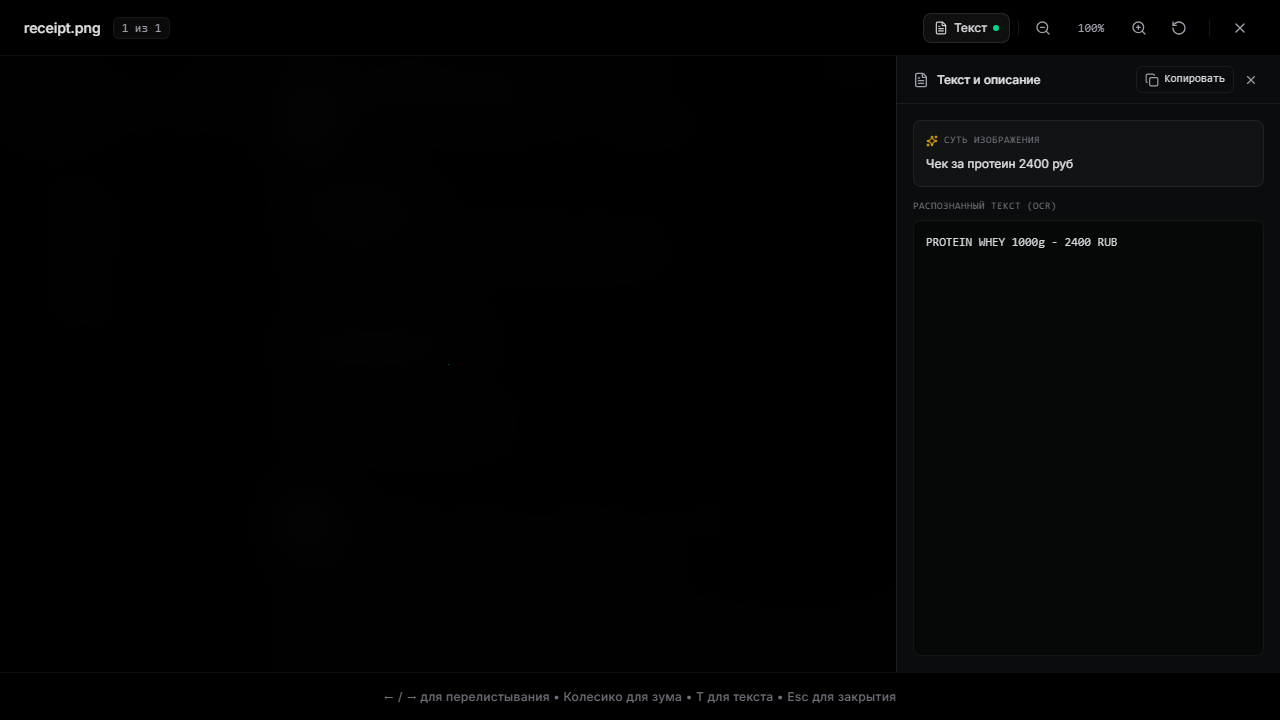
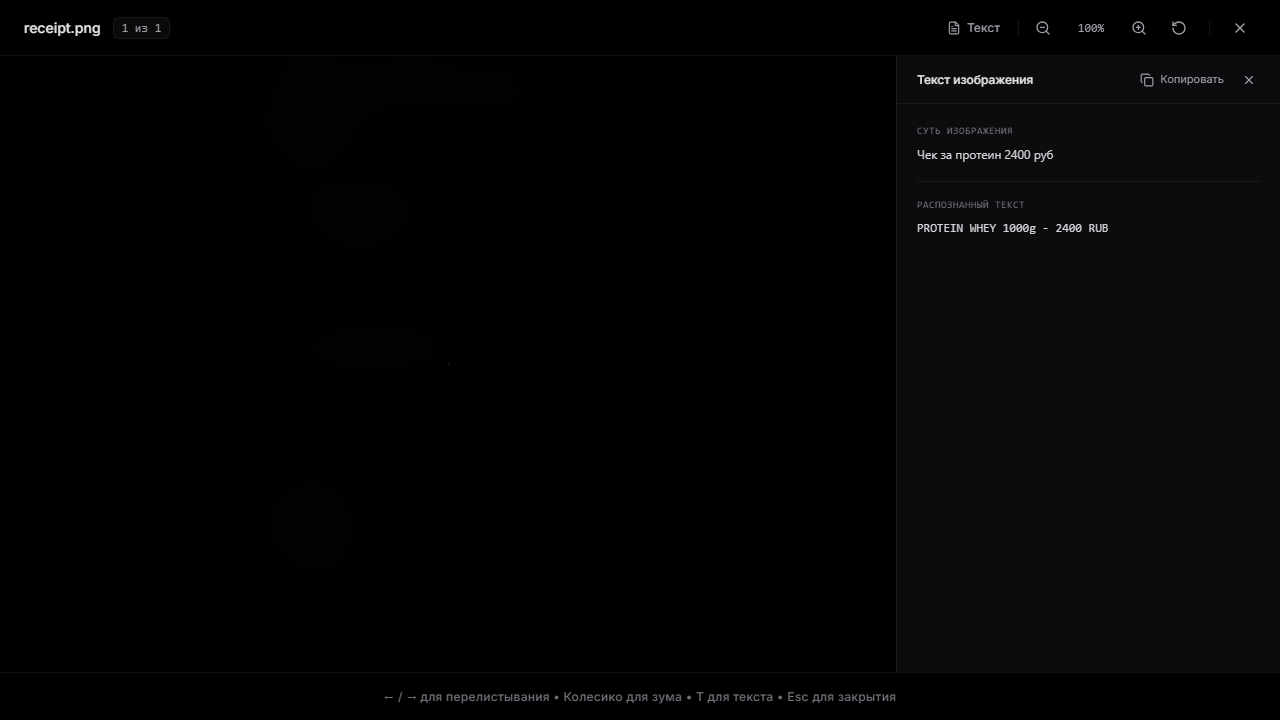
style(lightbox): flatten ocr inspector panel and remove green led dot from toolbar

diff --git a/src/components/UI/ImageLightbox.tsx b/src/components/UI/ImageLightbox.tsx
@@ -9,7 +9,6 @@ import {
   FileText,
   Copy,
   Check,
-  Sparkles,
   AlertCircle,
   Loader2,
 } from 'lucide-react';
@@ -242,25 +241,20 @@ export const ImageLightbox: React.FC<ImageLightboxProps> = ({
 
         {/* Right: Text button + Zoom controls + Close button */}
         <div className="flex items-center gap-1.5 sm:gap-2">
-          {/* Toggle Text / OCR Panel */}
+          {/* Toggle Text / OCR Panel (Monochrome, no LED dots) */}
           <button
             type="button"
             onClick={() => setIsTextPanelOpen(prev => !prev)}
             title={isTextPanelOpen ? 'Скрыть текст (T)' : 'Распознанный текст и описание (T)'}
             aria-label="Распознанный текст"
-            className={`px-2.5 py-1.5 rounded-lg text-xs font-medium flex items-center gap-1.5 transition-all outline-none border cursor-pointer active:scale-95 ${
+            className={`px-2.5 py-1.5 rounded-lg text-xs font-medium flex items-center gap-1.5 transition-all outline-none cursor-pointer active:scale-95 ${
               isTextPanelOpen
-                ? 'bg-white/15 text-white border-white/20 shadow-sm'
-                : hasText
-                  ? 'bg-white/[0.06] text-zinc-300 hover:text-white border-white/10 hover:bg-white/10'
-                  : 'text-zinc-500 hover:text-zinc-300 border-transparent hover:bg-white/[0.04]'
+                ? 'bg-white/15 text-white'
+                : 'text-zinc-400 hover:text-white hover:bg-white/[0.06]'
             }`}
           >
             <FileText className="w-3.5 h-3.5 shrink-0" />
             <span className="hidden sm:inline">Текст</span>
-            {hasText && (
-              <span className="w-1.5 h-1.5 rounded-full bg-emerald-400 shrink-0" />
-            )}
           </button>
 
           <div className="w-px h-4 bg-white/[0.08]" />
@@ -384,25 +378,22 @@ export const ImageLightbox: React.FC<ImageLightboxProps> = ({
           )}
         </div>
 
-        {/* Right: Text / OCR Side Panel */}
+        {/* Right: Text / OCR Side Panel (Flat Anti-Matryoshka Canvas) */}
         {isTextPanelOpen && (
           <aside
             onClick={e => e.stopPropagation()}
             className="w-full sm:w-80 md:w-96 border-l border-white/[0.08] bg-[#0c0d0e]/95 backdrop-blur-2xl flex flex-col shrink-0 z-20 animate-in slide-in-from-right-4 duration-200 min-h-0 select-text"
           >
             {/* Header */}
-            <div className="h-12 px-4 border-b border-white/[0.06] flex items-center justify-between shrink-0 select-none">
-              <div className="flex items-center gap-2">
-                <FileText className="w-4 h-4 text-zinc-400" />
-                <span className="text-xs font-medium text-zinc-200">Текст и описание</span>
-              </div>
-              <div className="flex items-center gap-1">
+            <div className="h-12 px-5 border-b border-white/[0.06] flex items-center justify-between shrink-0 select-none">
+              <span className="text-xs font-medium text-zinc-200">Текст изображения</span>
+              <div className="flex items-center gap-1.5">
                 {hasText && (
                   <button
                     type="button"
                     onClick={handleCopyText}
                     title="Скопировать текст в буфер"
-                    className="px-2 py-1 rounded-md text-[11px] font-mono text-zinc-300 hover:text-white hover:bg-white/[0.08] flex items-center gap-1.5 transition-all border border-white/[0.06] active:scale-95 cursor-pointer"
+                    className="px-2 py-1 rounded-md text-[11px] text-zinc-400 hover:text-white hover:bg-white/[0.08] flex items-center gap-1.5 transition-all active:scale-95 cursor-pointer"
                   >
                     {isCopied ? (
                       <>
@@ -421,34 +412,39 @@ export const ImageLightbox: React.FC<ImageLightboxProps> = ({
                   type="button"
                   onClick={() => setIsTextPanelOpen(false)}
                   title="Закрыть панель (T)"
-                  className="p-1.5 rounded-md text-zinc-400 hover:text-white hover:bg-white/[0.08] transition-all cursor-pointer"
+                  className="p-1 rounded-md text-zinc-400 hover:text-white hover:bg-white/[0.08] transition-all cursor-pointer"
                 >
                   <X className="w-3.5 h-3.5" />
                 </button>
               </div>
             </div>
 
-            {/* Scrollable Body */}
-            <div className="flex-1 overflow-y-auto p-4 flex flex-col gap-3 min-h-0 scrollbar-thin">
+            {/* Flat Scrollable Body (Single surface, zero nested boxes) */}
+            <div className="flex-1 overflow-y-auto p-5 flex flex-col gap-4 min-h-0 scrollbar-thin">
               {/* Summary if present */}
               {currentImage.summary && (
-                <div className="p-3 rounded-lg bg-white/[0.03] border border-white/[0.06] flex flex-col gap-1.5 shrink-0">
-                  <span className="text-[10px] uppercase font-mono tracking-wider text-zinc-500 flex items-center gap-1.5">
-                    <Sparkles className="w-3 h-3 text-amber-400" /> Суть изображения
+                <div className="flex flex-col gap-1.5">
+                  <span className="text-[10px] uppercase font-mono tracking-wider text-zinc-500 font-medium">
+                    Суть изображения
                   </span>
-                  <p className="text-xs text-zinc-200 leading-relaxed">
+                  <p className="text-xs text-zinc-300 leading-relaxed font-sans">
                     {currentImage.summary}
                   </p>
                 </div>
               )}
 
-              {/* OCR Text if present */}
+              {/* Clean Divider between Summary and OCR if both exist */}
+              {currentImage.summary && currentImage.extractedText && (
+                <div className="w-full h-px bg-white/[0.06]" />
+              )}
+
+              {/* OCR Text if present (flat on the panel plane) */}
               {currentImage.extractedText && (
-                <div className="flex-1 flex flex-col min-h-0 gap-1.5">
-                  <span className="text-[10px] uppercase font-mono tracking-wider text-zinc-500">
-                    Распознанный текст (OCR)
+                <div className="flex flex-col gap-1.5">
+                  <span className="text-[10px] uppercase font-mono tracking-wider text-zinc-500 font-medium">
+                    Распознанный текст
                   </span>
-                  <div className="flex-1 overflow-y-auto rounded-lg bg-black/40 border border-white/[0.06] p-3 text-xs font-mono text-zinc-300 leading-relaxed whitespace-pre-wrap select-text scrollbar-thin">
+                  <div className="text-xs font-mono text-zinc-300 leading-relaxed whitespace-pre-wrap select-text">
                     {currentImage.extractedText}
                   </div>
                 </div>
@@ -456,7 +452,7 @@ export const ImageLightbox: React.FC<ImageLightboxProps> = ({
 
               {/* Processing status */}
               {currentImage.enrichmentStatus === 'processing' && (
-                <div className="flex flex-col items-center justify-center py-12 gap-2 text-zinc-400">
+                <div className="flex flex-col items-center justify-center py-16 gap-2 text-zinc-400">
                   <Loader2 className="w-5 h-5 animate-spin text-zinc-300" />
                   <span className="text-xs font-mono">Распознавание текста через Qwen 3.8 27B...</span>
                 </div>
@@ -464,18 +460,18 @@ export const ImageLightbox: React.FC<ImageLightboxProps> = ({
 
               {/* Error status */}
               {currentImage.enrichmentStatus === 'error' && (
-                <div className="p-3 rounded-lg bg-rose-500/10 border border-rose-500/20 text-rose-300 flex flex-col gap-2">
-                  <div className="flex items-center gap-1.5 text-xs font-medium">
+                <div className="flex flex-col gap-2 pt-2">
+                  <div className="flex items-center gap-1.5 text-xs font-medium text-rose-400">
                     <AlertCircle className="w-4 h-4 shrink-0" /> Ошибка распознавания
                   </div>
                   {currentImage.enrichmentError && (
-                    <div className="text-[11px] font-mono opacity-80 break-words">{currentImage.enrichmentError}</div>
+                    <div className="text-[11px] font-mono text-rose-300/80 break-words">{currentImage.enrichmentError}</div>
                   )}
                   {onRetryEnrich && (
                     <button
                       type="button"
                       onClick={() => onRetryEnrich(currentImage)}
-                      className="mt-1 px-2.5 py-1 rounded bg-rose-500/20 hover:bg-rose-500/30 text-rose-200 text-xs font-medium self-start flex items-center gap-1.5 cursor-pointer active:scale-95"
+                      className="mt-1 px-2.5 py-1 rounded bg-rose-500/15 hover:bg-rose-500/25 text-rose-200 text-xs font-medium self-start flex items-center gap-1.5 cursor-pointer active:scale-95"
                     >
                       <RotateCcw className="w-3 h-3" /> Повторить OCR
                     </button>
@@ -485,16 +481,16 @@ export const ImageLightbox: React.FC<ImageLightboxProps> = ({
 
               {/* Empty state */}
               {!hasText && currentImage.enrichmentStatus !== 'processing' && currentImage.enrichmentStatus !== 'error' && (
-                <div className="flex flex-col items-center justify-center py-12 gap-3 text-zinc-500 text-center">
-                  <FileText className="w-8 h-8 opacity-40" />
-                  <div className="text-xs">На изображении нет распознанного текста</div>
+                <div className="flex flex-col items-center justify-center py-16 gap-3 text-zinc-500 text-center">
+                  <FileText className="w-7 h-7 opacity-30" />
+                  <div className="text-xs">На изображении нет текста</div>
                   {onRetryEnrich && (
                     <button
                       type="button"
                       onClick={() => onRetryEnrich(currentImage)}
-                      className="px-3 py-1.5 rounded-lg bg-white/[0.06] hover:bg-white/10 text-zinc-200 text-xs font-medium flex items-center gap-1.5 transition-all cursor-pointer active:scale-95 border border-white/[0.08]"
+                      className="px-3 py-1.5 rounded-lg bg-white/[0.06] hover:bg-white/10 text-zinc-200 text-xs font-medium flex items-center gap-1.5 transition-all cursor-pointer active:scale-95"
                     >
-                      <Sparkles className="w-3.5 h-3.5 text-amber-400" /> Распознать текст
+                      <FileText className="w-3.5 h-3.5 text-zinc-400" /> Распознать текст
                     </button>
                   )}
                 </div>

diff --git a/e2e/multimedia_enrichment.spec.ts b/e2e/multimedia_enrichment.spec.ts
@@ -185,7 +185,7 @@ test.describe('Multimedia Attachment Enrichment E2E', () => {
     await textToggleBtn.click();
 
     // Verify side panel elements
-    await expect(page.locator('text=Текст и описание')).toBeVisible();
+    await expect(page.locator('text=Текст изображения')).toBeVisible();
     await expect(page.locator('text=Чек за протеин 2400 руб')).toBeVisible();
     await expect(page.locator('text=PROTEIN WHEY 1000g - 2400 RUB').last()).toBeVisible();
     await expect(page.locator('button', { hasText: 'Копировать' })).toBeVisible();
@@ -198,14 +198,14 @@ test.describe('Multimedia Attachment Enrichment E2E', () => {
 
     // Test hotkey 'T' toggle
     await page.keyboard.press('t');
-    await expect(page.locator('text=Текст и описание')).toBeHidden();
+    await expect(page.locator('text=Текст изображения')).toBeHidden();
 
     await page.keyboard.press('t');
-    await expect(page.locator('text=Текст и описание')).toBeVisible();
+    await expect(page.locator('text=Текст изображения')).toBeVisible();
 
     // Close panel by Escape, then close lightbox
     await page.keyboard.press('Escape');
-    await expect(page.locator('text=Текст и описание')).toBeHidden();
+    await expect(page.locator('text=Текст изображения')).toBeHidden();
 
     await page.keyboard.press('Escape');
     await expect(textToggleBtn).toBeHidden();
